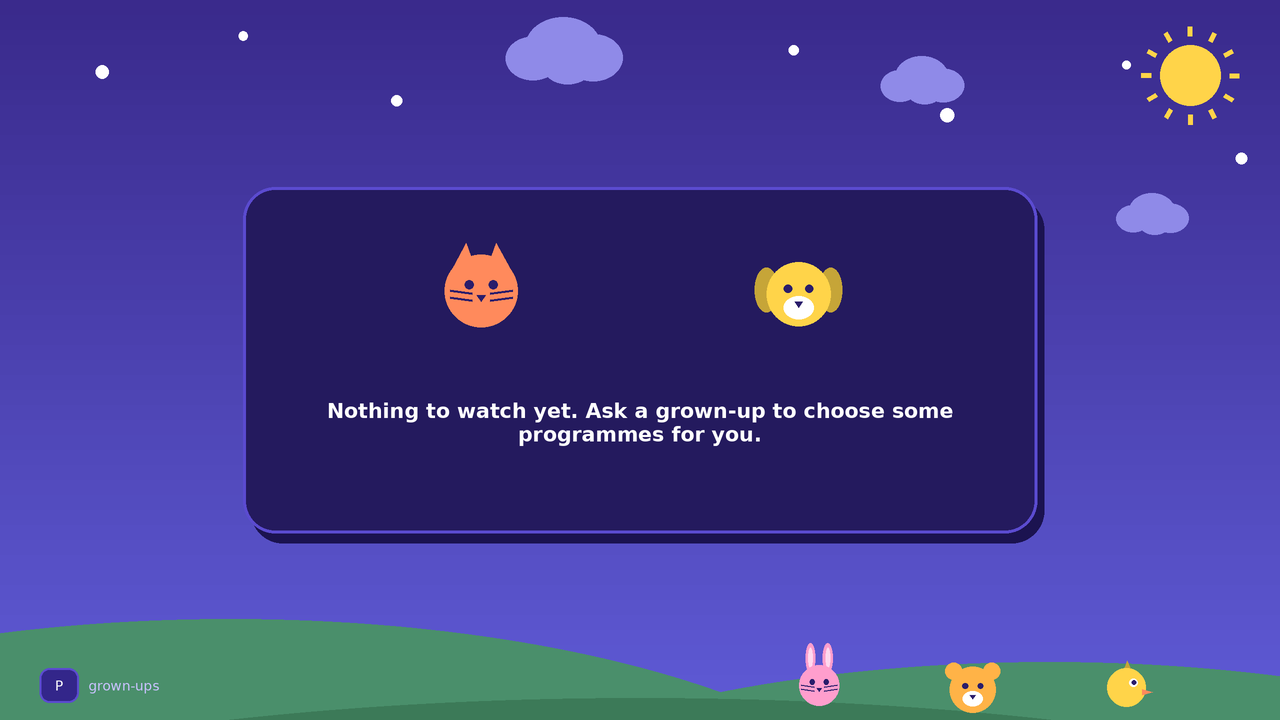
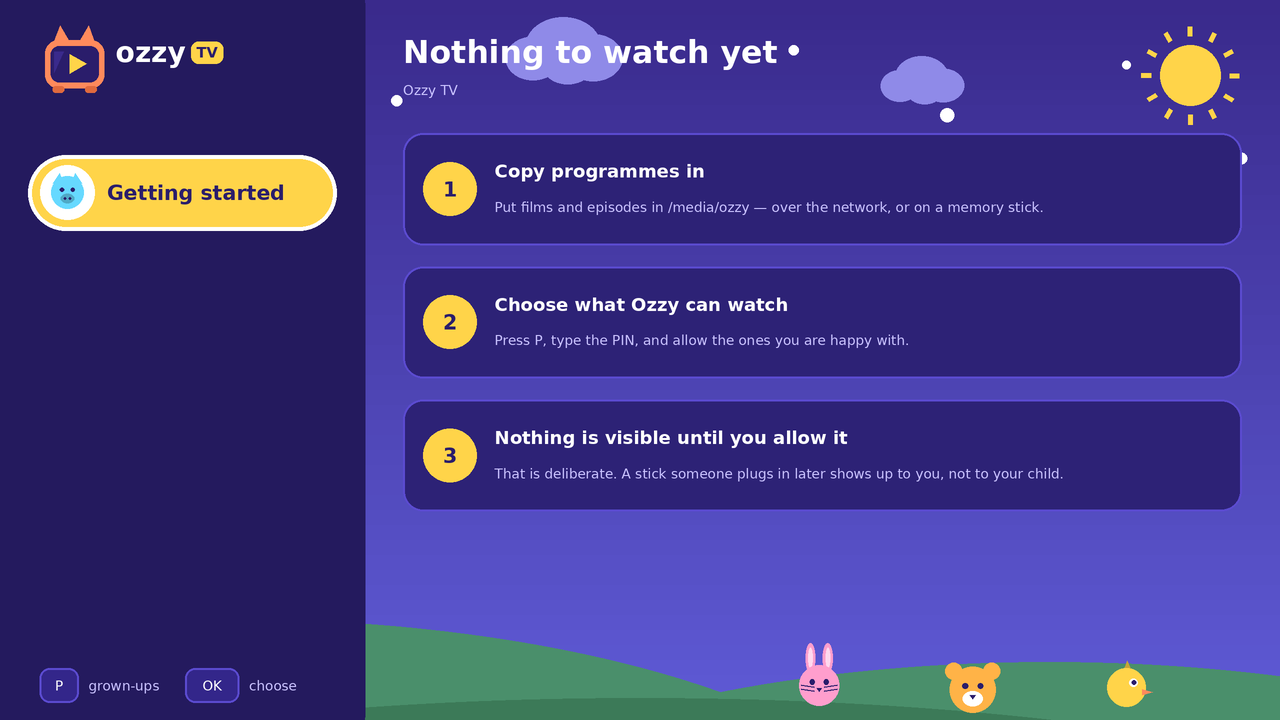
Add files via upload

diff --git a/OzzyTV/ozzytv/skin.py b/OzzyTV/ozzytv/skin.py
@@ -41,6 +41,13 @@ INK_DIM = "#c9c2ff"
 PILL = "#33268a"
 PILL_ON = "#ffd449"
 PILL_ON_INK = "#2a1d6b"
+# Line weights as fractions of screen height, not pixels. Every other measure in
+# this file already scales; these were literals, so on a 4K panel they stayed two
+# and three physical pixels — hairlines that shimmer and read as a soft, grainy
+# picture next to shapes that grew with the screen.
+HAIRLINE = 2 / 720
+RULE = 3 / 720
+
 TILE_BG = "#2d2276"
 FOCUS = "#ffffff"
 SHADOW = "#1b1350"
@@ -365,7 +372,7 @@ def _hints(sc: Scene, w: int, h: int, pairs: list[tuple[str, str]]) -> None:
     y = h - h * 0.072
     for cap, what in pairs:
         cw = max(h * 0.052, h * 0.021 * len(cap) + h * 0.033)
-        sc.add(RoundRect(x, y, cw, h * 0.048, r=h * 0.014, fill=PILL, outline=PANEL_EDGE, width=2),
+        sc.add(RoundRect(x, y, cw, h * 0.048, r=h * 0.014, fill=PILL, outline=PANEL_EDGE, width=HAIRLINE * h),
                Text(x + cw / 2, y + h * 0.024, cap, font=SMALL, fill=INK, anchor="center"))
         sc.add(Text(x + cw + h * 0.014, y + h * 0.024, what, font=SMALL, fill=INK_DIM, anchor="w"))
         x += cw + h * 0.021 + h * 0.011 * len(what) + h * 0.028
@@ -411,6 +418,11 @@ def _browse(sc: Scene, v, w: int, h: int, columns: int, rows: int) -> None:
     if v.subheading:
         sc.add(Text(mx, h * 0.125, v.subheading, font=SMALL, fill=INK_DIM, anchor="w"))
 
+    if not v.tiles and v.welcome:
+        _welcome(sc, v, mx, mw, w, h)
+        _hints(sc, w, h, [("P", "grown-ups"), ("OK", "choose")])
+        return
+
     if not v.tiles:
         sc.add(Text(mx + mw / 2, h * 0.45, "Nothing on this shelf yet", font=H2,
                     fill=INK_DIM, anchor="center"))
@@ -437,7 +449,7 @@ def _browse(sc: Scene, v, w: int, h: int, columns: int, rows: int) -> None:
                              r=h * 0.035, fill=SUN))
         sc.add(RoundRect(X, Y, W, H, r=h * 0.028, fill=TILE_BG,
                          hit=f"tile:{page * per_page + i}",
-                         outline=FOCUS if on else PANEL_EDGE, width=h * 0.005 if on else 2))
+                         outline=FOCUS if on else PANEL_EDGE, width=h * 0.005 if on else HAIRLINE * h))
         b = tile_badges[tile.title]
         art_h = H * 0.60
         sc.add(RoundRect(X + W * 0.055, Y + H * 0.055, W * 0.89, art_h, r=h * 0.022,
@@ -496,18 +508,44 @@ def _playing(sc: Scene, v, w: int, h: int, columns: int, rows: int) -> None:
     _hints(sc, w, h, [("OK", "carry on"), ("Back", "stop"), ("+ -", "louder")])
 
 
+def _welcome(sc: Scene, v, mx: float, mw: float, w: int, h: int) -> None:
+    """The first-boot screen: what to do next, in order, on the television.
+
+    Numbered cards rather than a paragraph, because this is read from across a
+    room by somebody holding a memory stick, and because a list of three things
+    with one of them done is a different feeling from a wall of text.
+    """
+    card_h = h * 0.155
+    gap = h * 0.030
+    top = h * 0.185
+    for i, (title, body) in enumerate(v.welcome[:3]):
+        y = top + i * (card_h + gap)
+        sc.add(RoundRect(mx, y, mw, card_h, r=h * 0.028, fill=TILE_BG,
+                         outline=PANEL_EDGE, width=HAIRLINE * h))
+        # A numbered disc, in the same sunny yellow as the focus ring, so the
+        # order reads before any of the words do.
+        cx, cy, rr = mx + card_h * 0.42, y + card_h / 2, card_h * 0.24
+        sc.add(Circle(cx, cy, rr, fill=SUN))
+        sc.add(Text(cx, cy, str(i + 1), font=H2, fill="#2a1d6b", anchor="center"))
+        tx = mx + card_h * 0.82
+        sc.add(Text(tx, y + card_h * 0.34, title, font=TILE, fill=INK, anchor="w",
+                    wrap=mw - card_h - w * 0.02, max_lines=1))
+        sc.add(Text(tx, y + card_h * 0.66, body, font=SMALL, fill=INK_DIM, anchor="w",
+                    wrap=mw - card_h - w * 0.02, max_lines=2))
+
+
 def _pin(sc: Scene, v, w: int, h: int, columns: int, rows: int) -> None:
     cw, ch = w * 0.44, h * 0.46
     x, y = (w - cw) / 2, (h - ch) / 2
     sc.add(RoundRect(x + h * 0.010, y + h * 0.014, cw, ch, r=h * 0.045, fill=SHADOW),
-           RoundRect(x, y, cw, ch, r=h * 0.045, fill=PANEL, outline=PANEL_EDGE, width=3))
+           RoundRect(x, y, cw, ch, r=h * 0.045, fill=PANEL, outline=PANEL_EDGE, width=RULE * h))
     creature(sc, "owl", x + cw / 2, y + ch * 0.22, h * 0.055, "#c39bff")
     sc.add(Text(x + cw / 2, y + ch * 0.44, v.heading, font=H1, fill=INK, anchor="center"))
     n = max(v.pin_digits, 0)
     for i in range(max(4, n)):
         dx = x + cw / 2 + (i - (max(4, n) - 1) / 2) * h * 0.055
         sc.add(Circle(dx, y + ch * 0.62, h * 0.018,
-                      fill=SUN if i < n else PANEL, outline=PANEL_EDGE, width=2))
+                      fill=SUN if i < n else PANEL, outline=PANEL_EDGE, width=HAIRLINE * h))
     msg = (f"Too many tries — wait {v.lock_seconds} seconds" if v.lock_seconds
            else v.pin_error or "Type the PIN, then press OK")
     sc.add(Text(x + cw / 2, y + ch * 0.82, msg, font=BODY,
@@ -518,7 +556,7 @@ def _pin(sc: Scene, v, w: int, h: int, columns: int, rows: int) -> None:
 
 def _parent(sc: Scene, v, w: int, h: int, columns: int, rows: int) -> None:
     sc.add(RoundRect(w * 0.020, h * 0.030, w - w * 0.040, h - h * 0.150,
-                     r=h * 0.035, fill=PANEL, outline=PANEL_EDGE, width=3))
+                     r=h * 0.035, fill=PANEL, outline=PANEL_EDGE, width=RULE * h))
     sc.add(Text(w * 0.045, h * 0.082, v.heading, font=H1, fill=INK, anchor="w"))
     if v.message:
         sc.add(Text(w * 0.045, h * 0.135, v.message, font=SMALL, fill=SUN, anchor="w"))
@@ -535,7 +573,7 @@ def _parent(sc: Scene, v, w: int, h: int, columns: int, rows: int) -> None:
                          r=0, fill=None, outline=None, hit=f"row:{idx}"))
         if idx == v.cursor:
             sc.add(RoundRect(w * 0.035, y - h * 0.008, w - w * 0.070, row_h - h * 0.006,
-                             r=h * 0.014, fill=PILL, outline=SUN, width=2))
+                             r=h * 0.014, fill=PILL, outline=SUN, width=HAIRLINE * h))
         state = {"allow": "✔ allowed", "block": "✖ blocked"}.get(
             row.mark, "· " + ("shown" if row.effective else "hidden"))
         sc.add(Text(w * 0.055 + row.depth * w * 0.018, y + row_h * 0.30,
@@ -553,7 +591,7 @@ def _message(sc: Scene, v, w: int, h: int, columns: int, rows: int) -> None:
     cw, ch = w * 0.62, h * 0.48
     x, y = (w - cw) / 2, (h - ch) / 2
     sc.add(RoundRect(x + h * 0.010, y + h * 0.014, cw, ch, r=h * 0.045, fill=SHADOW),
-           RoundRect(x, y, cw, ch, r=h * 0.045, fill=PANEL, outline=PANEL_EDGE, width=3))
+           RoundRect(x, y, cw, ch, r=h * 0.045, fill=PANEL, outline=PANEL_EDGE, width=RULE * h))
     creature(sc, "cat", x + cw * 0.30, y + ch * 0.30, h * 0.070, "#ff8a5c")
     creature(sc, "dog", x + cw * 0.70, y + ch * 0.31, h * 0.062, "#ffd449")
     sc.add(Text(x + cw / 2, y + ch * 0.68, v.message, font=H2, fill=INK,

diff --git a/OzzyTV/ozzytv/app.py b/OzzyTV/ozzytv/app.py
@@ -129,6 +129,8 @@ class View:
     # parent
     rows: list[ParentRow] = field(default_factory=list)
     parent_hint: str = ""
+    # the first-boot menu: (title, explanation) for each thing left to do
+    welcome: list[tuple[str, str]] = field(default_factory=list)
 
 
 # What a child sees when a parent has not chosen anything yet. Deliberately not
@@ -138,10 +140,34 @@ RECENT_KEY = "\x00recent"
 LOOSE_KEY = "\x00loose"
 RECENT_LIMIT = 12
 
+WELCOME_KEY = "\x00welcome"
+
 NOTHING_ALLOWED = ("Nothing to watch yet.\n\n"
                    "Ask a grown-up to choose some programmes for you.")
 NO_MEDIA = ("No films or programmes found.\n\n"
             "Ask a grown-up to plug in the drive with the videos on it.")
+
+
+def welcome_steps(settings, allowed: bool) -> list[tuple[str, str]]:
+    """What to do next, on the screen, in order.
+
+    A first boot is the one time this television has something to say to the
+    grown-up rather than to the child, and the grown-up is standing in front of
+    it rather than reading a README.
+    """
+    where = str(settings.roots[0]) if settings.roots else "/media/ozzy"
+    steps = [("Copy programmes in",
+              f"Put films and episodes in {where} — over the network, or on a "
+              f"memory stick."),
+             ("Choose what Ozzy can watch",
+              "Press P, type the PIN, and allow the ones you are happy with.")]
+    if allowed:
+        # The drive is not the problem, so lead with the step that is.
+        steps.reverse()
+    steps.append(("Nothing is visible until you allow it",
+                  "That is deliberate. A stick someone plugs in later shows up "
+                  "to you, not to your child."))
+    return steps
 
 
 class OzzyApp:
@@ -762,9 +788,19 @@ class OzzyApp:
 
         rail = self._sync_rail(self._rail())
         if not rail:
+            # A MENU with nothing on it, not a message INSTEAD of the menu.
+            # Throwing the whole screen away for a line of text meant a fresh
+            # install looked broken rather than empty: no logo, no shelves, and
+            # no sign that pressing P is how a grown-up fixes it. The layout is
+            # the thing that says "this is working, it is just waiting for you".
             any_media = any(r.children for r in self.roots)
-            return View(screen=Screen.MESSAGE.value,
-                        message=NOTHING_ALLOWED if any_media else NO_MEDIA)
+            return View(screen=Screen.BROWSE.value,
+                        heading="Nothing to watch yet",
+                        subheading="Ozzy TV",
+                        rail=[RailItem("Getting started", WELCOME_KEY, -1, 0, True)],
+                        rail_cursor=0, focus=Pane.RAIL.value,
+                        message=NOTHING_ALLOWED if any_media else NO_MEDIA,
+                        welcome=welcome_steps(self.settings, allowed=any_media))
         items = self._grid()
         tiles = []
         for ri, n in items:

diff --git a/OzzyTV/tests/test_app.py b/OzzyTV/tests/test_app.py
@@ -16,10 +16,28 @@ from ozzytv.playback import PlayState
 
 
 class TestNothingUntilAGrownUpChooses:
-    def test_a_fresh_install_shows_no_programmes(self, app):
+    def test_a_fresh_install_shows_a_menu_not_a_dead_end(self, app):
+        """An EMPTY menu, not a message instead of the menu.
+
+        It used to throw the whole screen away for a line of text, so a fresh
+        install looked broken rather than unfinished: no logo, no shelves, and
+        no sign that pressing P is how a grown-up fixes it.
+        """
         v = app.view()
-        assert v.screen == Screen.MESSAGE.value
+        assert v.screen == Screen.BROWSE.value
+        assert v.rail, "no menu at all"
         assert "Ask a grown-up" in v.message
+
+    def test_and_it_says_what_to_do_next(self, app):
+        """The one time this television has something to say to the grown-up
+        rather than the child — and they are standing in front of it, not
+        reading a README."""
+        steps = app.view().welcome
+        assert len(steps) >= 2
+        joined = " ".join(t + " " + b for t, b in steps).lower()
+        assert "press p" in joined
+        assert any(str(r).lower() in joined for r in app.settings.roots), \
+            "it never says WHERE to put the films"
 
     def test_it_does_not_look_like_a_fault(self, app):
         """A child cannot tell 'broken' from 'not set up', so it must not read as
@@ -460,4 +478,6 @@ class TestNothingCrashesTheTelevision:
         app = allow_everything
         shutil.rmtree(library_dir)
         app.rescan()
-        assert app.view().screen == Screen.MESSAGE.value
+        v = app.view()
+        assert v.screen == Screen.BROWSE.value, "the menu vanished with the drive"
+        assert v.welcome, "and left nothing saying what to do about it"

diff --git a/OzzyTV/tests/test_tkview.py b/OzzyTV/tests/test_tkview.py
@@ -208,11 +208,18 @@ class TestEveryScreenPaints:
         drawn = " ".join(str(t) for t in texts(tkview.canvas))
         assert "Choose what Ozzy can watch" in drawn and "Films" in drawn
 
-    def test_the_ask_a_grown_up_screen(self, tkview, store):
+    def test_the_first_boot_screen_is_a_menu(self, tkview, store):
+        """With nothing allowed it still draws the television — logo, shelf list
+        and all — plus what to do next. Replacing the whole screen with a line of
+        text made a fresh install look broken rather than unfinished."""
         store.clear_marks(tkview.app.roots[0].root)
         tkview.app.rescan()
         tkview.render()
-        assert "Ask a grown-up" in " ".join(str(t) for t in texts(tkview.canvas))
+        drawn = " ".join(str(t) for t in texts(tkview.canvas))
+        assert "ozzy" in drawn, "the logo went with the menu"
+        assert "Getting started" in drawn
+        assert "Copy programmes in" in drawn
+        assert "Press P" in drawn, "no way of knowing how a grown-up gets in"
 
     def test_a_long_title_does_not_stop_the_paint(self, tkview, library_dir):
         # 200, not 300: ext4 caps a filename at 255 bytes, so a longer one tests

diff --git a/OzzyTV/ozzytv/doctor.py b/OzzyTV/ozzytv/doctor.py
@@ -92,8 +92,19 @@ def check_display() -> Check:
     import tkinter as tk
     try:
         root = tk.Tk()
-        size = f"{root.winfo_screenwidth()}x{root.winfo_screenheight()}"
+        sw, sh = root.winfo_screenwidth(), root.winfo_screenheight()
         root.destroy()
+        size = f"{sw}x{sh}"
+        # Everything is drawn as a fraction of the screen, so a low mode is not a
+        # smaller picture — it is a soft one, because the display stretches it
+        # back up. That reads as "the graphics are grainy", which sends people
+        # looking at the artwork rather than at the mode.
+        if sw < 1280:
+            return Check("a screen to draw on", WARN,
+                         f"{os.environ['DISPLAY']} running at only {size}",
+                         "xrandr --output <output> --auto   (the session does "
+                         "this at boot; if it stuck, the display's EDID is "
+                         "probably not being read)")
         return Check("a screen to draw on", OK, f"{os.environ['DISPLAY']} ({size})")
     except Exception as e:
         return Check("a screen to draw on", FAIL, f"{type(e).__name__}: {e}",

diff --git a/OzzyTV/tools/mockup.py b/OzzyTV/tools/mockup.py
@@ -152,9 +152,15 @@ def demo_views():
         ParentRow("Alien", "Films/alien", 0, 2, "video", "", False, "Films", "blocked by “Films”"),
         ParentRow("Paddington", "Films/padd", 0, 2, "video", "allow", True, "", ""),
     ])
-    yield "06-nothing-yet", View(screen="message",
-                                 message="Nothing to watch yet.\n\nAsk a grown-up to choose "
-                                         "some programmes for you.")
+    # A fresh install. Built from the app's own helper, so this really is the
+    # first screen somebody sees rather than a guess at it.
+    from ozzytv.app import WELCOME_KEY, welcome_steps
+    from ozzytv.config import Settings
+    yield "06-nothing-yet", View(
+        screen="browse", heading="Nothing to watch yet", subheading="Ozzy TV",
+        rail=[RailItem("Getting started", WELCOME_KEY, -1, 0, True)],
+        rail_cursor=0, focus="rail",
+        welcome=welcome_steps(Settings(media_roots=["/media/ozzy"]), allowed=False))
 
 
 def main() -> int:
